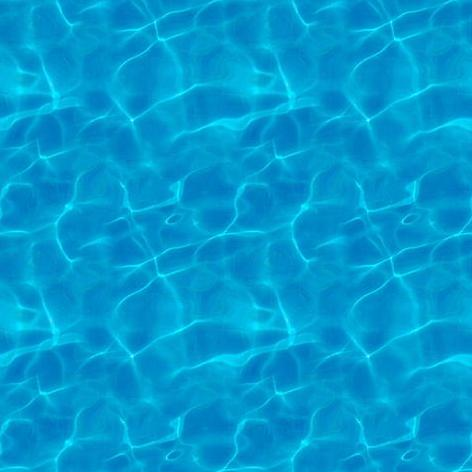
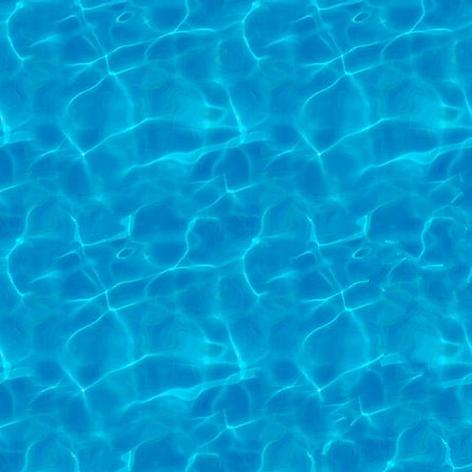
cleaning *.py

Changed region(s): [[0.0, 0.0, 1.0, 1.0], [0.2966, 0.8602, 0.3263, 0.8898]]

diff --git a/Synthesis.py b/Synthesis.py
@@ -2,8 +2,8 @@
 from PIL import Image
 import os
 import numpy as np
-import matplotlib.pyplot as plt
-from random import shuffle
+from random import shuffle,randint
+import sys
 
 
 def metric(paterne,paterne_cible,dispersion):
@@ -120,9 +120,11 @@ def synthese(texture,N,M,dispersion,etapes):
             else:
                 """on est assuré d'avoir déja N positions synthétisés et on peut donc utiliser la méthode décrite par Harrison"""
                 N_plus_proches,N_candidats = localisation(position,nouveau,texture,origine_pixel,rempli_ou_non,N)
-                """faire les M_candidats aussi ... (A AJOUTER PLUS TARD DONC)"""
+                M_candidats = [(randint(0,a-1),randint(0,b-1)) for _ in range(M)]
+                NplusM_candidats = N_candidats + M_candidats
 
-                meilleur_candidat = choix(N_plus_proches,N_candidats,position,texture,nouveau,dispersion)
+                meilleur_candidat = choix(N_plus_proches,NplusM_candidats,position,texture,nouveau,dispersion)
+
 
                 nouveau[position] = texture[meilleur_candidat]
                 origine_pixel[position] = meilleur_candidat
@@ -153,19 +155,16 @@ def synthese(texture,N,M,dispersion,etapes):
     return(nouveau)
 
 
+entree = sys.argv[1]
+sortie = sys.argv[2]
+N,M,dispersion,etapes = [int(parametre) for parametre in sys.argv[3:]]
 
 
-
-texturepil = Image.open("inputs/texture3.jpg")
+texturepil = Image.open(entree)
 texture = np.asarray(texturepil)
 
-texture=texture
+image = synthese(texture,N,M,dispersion,etapes)
 
-image = synthese(texture,4,1,30,3)
-
-texture = np.uint8(texture)
 image=np.uint8(image)
-
-
 nouvelle_imgpil = Image.fromarray(image)
-nouvelle_imgpil.save("output3.jpg")
+nouvelle_imgpil.save(sortie)
